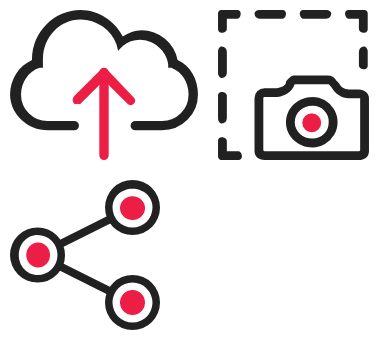
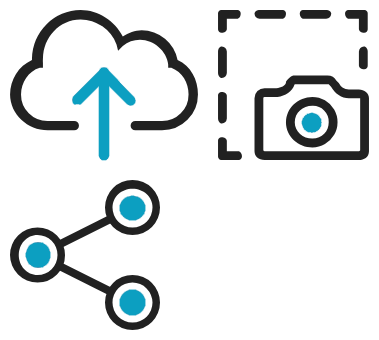
Final changes to the color schema.

diff --git a/assets/css/style.css b/assets/css/style.css
@@ -71,7 +71,7 @@
    
    .top-buffer1{margin-top:10px;}
    .top-buffer2{margin-top:5px;}
-   .top-buffer3{margin-top:30px;min-width: 350px;}
+   .top-buffer3{margin-top:30px;min-width: 557px;}
    .top-buffer4{margin-top:40px;}
    .top-buffer5{margin-top:50px;}
    .top-buffer7{margin-top:70px;}
